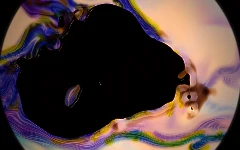
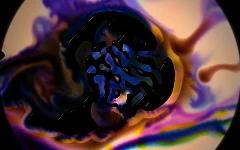
28i-8: re-tune the six looks the real dye mixing left looking bad
What was wrong. After the real dye mixing landed, the owner asked for the looks to be
re-tuned, but only where they look bad. The six suspects from #1020's stills were rendered
in the lab on the Mac's GPU (the real solver and plate shader, the synth band) at 10, 30
and 60 s, measured (mean luminance Y, share clipped to white, share near black,
Hasler-Susstrunk colourfulness) and looked at. All six were bad.

What changed. Each look is re-tuned with its own dials; no shader is touched. The built-in
looks go in the new src/presetsRetune.ts (layRetuneLooks, laid after layPaceLooks and before
layStirCords). The owner's two looks are edited in place in src/presetsOwner.ts.

- Classical Vibe. The comet's pull and its two cords are gone. Turbulence goes 0.5 -> 0.1
  with Detail 3, Sound Drive is 0.2 and the pours are bigger and more of them. Dye Budget
  is 0.7, Layer Scale Variety 0.9, and there is less blur and goo. A bass -> Buoyancy
  patch keeps 28i-3b's two fast patches. Lamp Ground stays 0. This also answers the
  owner's "a little more dye and complexity".
- Mushy Mushy: Phase Scale 0.357 -> 0.15.
- Poster, 1969: Lamp Ground 1 -> 0.5, exposure 0.55.
- Lava Lamp: the bulb goes #ffc457 -> #e3a347. Oil Weight stays 0.5.
- Turing Print: Dye Budget 0.85 -> 0.5, exposure 0.9.
- Lacing Run: Turbulence 0.7 -> 0.

What it measured (480x300 lab, before -> after, at 10/30/60 s):
- Classical Vibe: colourfulness 57/57/57 -> 83/72/62. Y .25 -> .14/.17/.22. Mean dye
[…]

diff --git a/src/presetsOwner.ts b/src/presetsOwner.ts
@@ -28,7 +28,9 @@ import { stirCordDepth, withMusicStir } from './lib/stir';
 /*
   Classical Vibe: the photograph style (a lens, its focus and bloom) on a thin
   water at a slow pace, two paper colours, sienna and ice, for the light the
-  dish is shot through. Kept as saved, but for its Lamp Ground (below).
+  dish is shot through. Kept as saved, but for its Lamp Ground and, at the
+  owner's ask for more dye and complexity (2026-11-27), its stirs, pours and
+  form dials (below).
 */
 export const CLASSICAL_VIBE: Preset = {
   id: 'classical-vibe',
@@ -48,7 +50,9 @@ export const CLASSICAL_VIBE: Preset = {
     airVelocity: 0.4926,
     vibrationFrequency: 0.2296,
     blendMode: 'lighter',
-    gooeyEffect: 0.6026,
+    // 0.6 → 0.45, and Soft Focus 0.35 → 0.2 below: less melting and less blur,
+    // so the smaller forms the owner asked for stay forms (2026-11-27).
+    gooeyEffect: 0.45,
     rotationSpeed: 0.1931,
     centerGravity: 0.4207,
     ledMode: 'fire',
@@ -61,12 +65,30 @@ export const CLASSICAL_VIBE: Preset = {
     advection: 0.7355,
     damping: 0.9419,
     heatDecay: 0.9667,
-    cometSpeed: 1.5,
+    // The comet's pull, saved at 1.5 and driven by the bass, is gone, and so
+    // are its two cords (bass on Comet Speed, tonal mid on Comet Angle). What
+    // was reported (2026-11-27): once the real dye mixing landed the look was
+    // a bare sienna-and-ice paper with a faint haze, colourfulness 57, no dye
+    // to speak of at 10, 30 or 60 s; the owner asked for a little more dye
+    // and complexity. What was measured, each stir alone on the look's own
+    // pours: with nothing stirring the plate held its dye at a mean of 0.59;
+    // the comet at half its saved speed took it to 0.05 in 10 s. On a thin gap
+    // whose rim is open, the comet is a through-flow: it carries the dye out
+    // of the dish faster than any pour lays it, and the regulator cannot put
+    // back what has left (PLAN 18a-25). The swells are the motion this look
+    // is about, so it keeps those and loses the pull.
+    cometSpeed: 0,
     cometAngle: 90,
     surge: 0.6,
     automateRate: 0.1056,
-    turbulenceScale: 0.5035,
-    turbulenceDetail: 2,
+    // Turbulence 0.5 → 0.1, Detail 2 → 3, for the same leak: the curl noise
+    // was the second drain (0.59 → 0.17 in 30 s at 0.25, 0.49 at 0.1), its
+    // lowest octave dish-sized and not held closed at the rim. A tenth of it
+    // still folds the pours; the third octave gives the smaller curls the
+    // owner asked for. The music's stir cord on it is re-sized from these by
+    // houseRules, as on every look.
+    turbulenceScale: 0.1,
+    turbulenceDetail: 3,
     boundaryContrast: 0.295,
     saturationBoost: 1.382,
     // Saved at 1, and it never drew: a photograph has its own ground, the lit
@@ -78,10 +100,12 @@ export const CLASSICAL_VIBE: Preset = {
     // byte for byte, and the desk's lamp dial no longer reads 1 on a look it
     // cannot reach.
     lampGround: 0,
-    dyeBudget: 0.5884,
+    // 0.59 → 0.7: a little more dye, the owner's ask (2026-11-27).
+    dyeBudget: 0.7,
     edgeRelief: 0.3335,
     plateRock: 0.8054,
-    layerScaleVariety: 0.7438,
+    // 0.74 → 0.9: a wider spread of form sizes, the owner's "complexity".
+    layerScaleVariety: 0.9,
     hueJourney: 0,
     beatSqueeze: 0.5293,
     backgroundLoop: 0.6085,
@@ -107,37 +131,54 @@ export const CLASSICAL_VIBE: Preset = {
     moireFlip: false,
     lampWarmth: 0.097,
     beads: 0,
-    postBlurRadius: 0.3546,
+    postBlurRadius: 0.2,
     macroChase: 0.53,
     macroHold: 9.106,
     macroSync: 0.5725,
     macroCellScale: 0.8853,
     macroDepth: 0.2751,
     macroRelief: 0.4586,
+    // Sound Drive 0.6 (unset, the default) → 0.2, with every pour's volume
+    // tripled below so the dye the music lays is what it was. The drive scales
+    // the music's stir (Turbulence's cord, the eddies), and that stir alone,
+    // at the old drive, drained the plate to 0.06 by 60 s even with the comet
+    // gone and Turbulence at 0.1. At 0.2 with the pours tripled: a mean of
+    // 0.32 at 30 s and 0.17 at 60 s, against 0.11 and 0.06; colourfulness 72
+    // and 62, against 57. Lowering the drive alone starves the pours, which
+    // it masters, so they carry the difference. The swells still breathe
+    // with the energy; they are only stirred less.
+    audioImpact: 0.2,
+    // The pours (owner's ask, 2026-11-27): smaller and more of them, so more
+    // and smaller forms: the pulse 0.12 → 0.08 across, the kick's bloom 8
+    // drops at 0.3 → 14 at 0.2, the stream and swell 0.2 → 0.14; each volume
+    // ×3 for the Sound Drive above (0.6 → 0.2) and a little over for the dye.
     sceneMappings: [
-      { source: 'bands', feature: 'bass', setting: 'cometSpeed', depth: 0.4 },
-      { source: 'bands', feature: 'tonalMid', setting: 'cometAngle', depth: 0.125 },
+      // In the comet's place, the bass on Buoyancy (0.12, the depth other
+      // looks give it): the warm water lifts on the low end, a roll that turns
+      // inside the dish and sends nothing over the rim, so the look keeps a
+      // second fast patch beside the snare's (`npm run soundpatch`, 28i-3b).
+      { source: 'bands', feature: 'bass', setting: 'buoyancy', depth: 0.12 },
       { source: 'hits', feature: 'snareHit', setting: 'vorticityConfinement', depth: 0.25 },
       { source: 'sound', feature: 'mid', setting: 'turbulenceScale', depth: 0.33 },
       { source: 'sound', feature: 'energy', setting: 'areaPour', depth: 0.5, mode: 'follow', masters: [
         'audioImpact',
-      ], role: 'pulse', volume: 0.6, size: 0.12 },
+      ], role: 'pulse', volume: 2.4, size: 0.08 },
       { source: 'sound', feature: 'energy', setting: 'areaHeat', depth: 0.05, mode: 'follow', masters: [
         'audioImpact',
       ], role: 'heat', size: 0.1 },
       { source: 'sound', feature: 'energy', setting: 'areaPress', depth: 0.5, mode: 'follow', masters: [
         'audioImpact',
       ], role: 'press', gain: 1.176, size: 0.42 },
-      { source: 'hits', feature: 'kickHit', setting: 'areaPour', depth: 0.5, mode: 'gate', threshold: 0.3, attack: 0, release: 0.1, volume: 3.2, drops: 8, size: 0.3, bottle: 2, masters: [
+      { source: 'hits', feature: 'kickHit', setting: 'areaPour', depth: 0.5, mode: 'gate', threshold: 0.3, attack: 0, release: 0.1, volume: 10.8, drops: 14, size: 0.2, bottle: 2, masters: [
         'audioImpact',
         'kickBloom',
       ], role: 'bloom' },
       { source: 'sound', feature: 'mid', setting: 'areaPour', depth: 0.5, mode: 'follow', masters: [
         'audioImpact',
-      ], role: 'stream', volume: 1.44, gain: 1.429, size: 0.2, wander: 0.6, bottle: 1 },
+      ], role: 'stream', volume: 5.1, gain: 1.429, size: 0.14, wander: 0.6, bottle: 1 },
       { source: 'sound', feature: 'energy', setting: 'areaPour', depth: 0.5, mode: 'follow', masters: [
         'audioImpact',
-      ], role: 'swell', volume: 1.44, size: 0.2, wander: 0.56, bottle: 3 },
+      ], role: 'swell', volume: 5.1, size: 0.14, wander: 0.56, bottle: 3 },
       { source: 'sound', feature: 'timbre', setting: 'areaHue', depth: 0.6, mode: 'follow', role: 'bottle', wander: 1 },
     ],
   },
@@ -146,7 +187,8 @@ export const CLASSICAL_VIBE: Preset = {
   Mushy Mushy: thick liquid in two layers with a ferrofluid phase on a
   walking magnet, the chemistry (Liesegang rings, the Turing print, a little
   BZ) printing through it, and a long hue journey. Kept as saved but for
-  Turbulence (below) and the name, capitalised as the other looks' are.
+  Turbulence and Phase Scale (below) and the name, capitalised as the other
+  looks' are.
 */
 export const MUSHY_MUSHY: Preset = {
   id: 'mushy-mushy',
@@ -162,7 +204,17 @@ export const MUSHY_MUSHY: Preset = {
     platePressure: 0.7712,
     gapThickness: 0.3953,
     phaseAmount: 0.6751,
-    phaseScale: 0.357,
+    // 0.15, saved at 0.357 (PLAN 28i-8). After the real dye mixing landed the
+    // second phase gathered into one hand-sized body, and the ferrofluid in
+    // it, dark by its nature, read as a black hole in the plate: the lab
+    // render (lookstills-entry, its synth band) measured 55% of the frame
+    // black at 10 s and 45% at 60 s. Phase Scale runs the phase from beads to
+    // hands by setting its interfacial tension and the magnet's falloff
+    // together; a lower tension cannot hold one big round domain, so at 0.15
+    // as much of the same phase breaks into a labyrinth of cells and fingers
+    // with the dye lying between them, the magnet still walking under it.
+    // The liquids, the magnet and the chemistry are unchanged.
+    phaseScale: 0.15,
     phaseSharp: 0.3486,
     magnetHeight: 0.2622,
     magnetStrength: 0.7733,

diff --git a/src/presetsRetune.ts b/src/presetsRetune.ts
@@ -1,0 +1,95 @@
+import type { Preset } from './presets';
+import type { VisualizerSettings } from './types';
+
+/*
+  The built-in looks that the real dye mixing left looking wrong, re-tuned
+  with their own dials (PLAN 28i-8).
+
+  What was reported (2026-11-27): once the real dye mixing landed, the owner
+  asked for the looks to be re-tuned, but only the ones that look bad. The
+  stills of PR #1020 named six suspects; this file holds the four built-in
+  ones (Classical Vibe and Mushy Mushy are the owner's own, edited in place
+  in presetsOwner.ts).
+
+  How each was judged: every look rendered in the lab (scripts/lookstills-
+  entry.ts `renderLook`, the real solver and plate shader on this Mac's GPU,
+  the synth band at a sixtieth of a second a step) at 10, 30 and 60 s,
+  measuring the picture's mean luminance (Y), the share of the frame
+  clipped to white, the share near black, and colourfulness (Hasler and
+  Süsstrunk), and then looked at by eye. All four were as bad as their stills.
+
+  What this file may touch: a look's light, exposure, lamp, dye budget and
+  the liquid's own dials. No shader is changed and no look is given a stir,
+  a pour or a liquid it did not have; the physics is what it was. Kept out
+  of presets.ts, which sits at its size ceiling (`npm run sizes`).
+
+  Where it runs (presetsLay.ts): after layPaceLooks and before
+  layStirCords, so the music's stir cord is sized from the Turbulence set
+  here, and after layMoireLooks, whose moiré copies of Poster and Lava Lamp
+  keep the settings they were made from.
+*/
+const RETUNES: Record<string, Partial<VisualizerSettings>> = {
+  /*
+    Poster, 1969: 47% of the frame clipped to white at 10 s and 37% at 60 s.
+    It is drawn on the lamp (Lamp Ground 1: the light comes through the
+    plate from a lamp behind it), and with the full lamp every gap between
+    the two opaque dyes was blown-out white, the orange and ultramarine
+    lost at their edges where they thin. Half the lamp keeps the poster's
+    paper ground (0 put the dyes on black, 30–44% of the frame dark, which
+    is not a screen print) and the exposure, which sets where dye thin
+    enough reads as bare glass, at 0.55 keeps the hard edges. After: no
+    clipping at 30 or 60 s, the two dyes flat and vibrating against a pale
+    ground. Exposure 0.4 on the full lamp still clipped 21%: the lamp, not
+    the film, was the cause.
+  */
+  'poster-1969': { lampGround: 0.5, exposure: 0.55 },
+  /*
+    Turing Print: dark. Y 0.05 with 64% of the frame near black at 30 and 60
+    s. A CIMA print in starch is blue-black stripes on a clear gel under a
+    white lamp, and the stripes are where the dye is; at Dye Budget 0.85
+    the regulator held so much dye on the plate that the stripes merged into
+    one blue-black field, and the clear gel the labyrinth needs between them
+    was gone. Half the dye (0.5) leaves the gel between the stripes, and the
+    exposure up to 0.9 lets the thinnest dye read as clear rather than grey.
+    After at 30 s: Y 0.22, 46% dark (the stripes themselves), 3% clipped.
+    Lower dye (0.4, exposure 1) clipped 16%; the lamp showed through bare.
+  */
+  'turing-print': { dyeBudget: 0.5, exposure: 0.9 },
+  /*
+    Lava Lamp: 64% of the frame clipped to white at 10 s, 26% at 60 s. The
+    plate stands over a warm lamp, and the bulb (#ffc457) was bright enough
+    that the clear liquid round the wax, which is most of the frame, burnt
+    out. A dimmer, deeper amber bulb (#e3a347) is the same lamp turned
+    down: after, no clipping at 30 s and Y 0.32, the wax blobs coloured
+    against an amber glow. Oil Weight stays at 0.5, so the wax still pools,
+    rises warm and sinks cool (`npm run lavacycle`, `lavaround`, `lavawax`,
+    `sealed`). Exposure 0 (dimming the film, not the bulb) still clipped 37%.
+  */
+  'lava-lamp': { ledColor: '#e3a347' },
+  /*
+    Lacing Run: dimmer. Y 0.17 at 10 s, 0.09 at 30 s and 60 s, and by 30 s
+    the amber tongue the description promises was one soft blurred blob on
+    the dark red ground. Its Turbulence (0.7) is a curl noise whose lowest
+    octave is the size of the dish and is not held closed at the open rim,
+    so on the thin gap it smears the tongue into a blob and carries dye out
+    over the rim (PLAN 18a-25). At 0 the tongue keeps its edges and drags
+    its lacing again: at 30 s and 60 s a defined amber and yellow tongue,
+    Y 0.13 and 0.09, colourfulness 97 and 81 against 82 and 74. It is only
+    partly mended: the room still stirs it (the music's stir cord on
+    Turbulence is re-sized for 0 by layStirCords, which runs after this, and
+    Air 0.2 is untouched), and that stir still carries dye out, so the dish
+    is about as dim as it was (a mean of 0.06 at 60 s). Turbulence 0.1–0.4
+    left less (0.02–0.08); a lower Sound Drive left less again, and the
+    surfactant, fingering and lacing cords made no difference, so none of
+    those changed. The rest is 18a-25's fix to the stir itself.
+  */
+  'lace-run': { turbulenceScale: 0 },
+};
+
+/** Lay the re-tunes over the looks they name (PLAN 28i-8). */
+export function layRetuneLooks(looks: Preset[]): void {
+  for (const look of looks) {
+    const p = RETUNES[look.id];
+    if (p) look.settings = { ...look.settings, ...p };
+  }
+}

diff --git a/src/presetsLay.ts b/src/presetsLay.ts
@@ -2,6 +2,7 @@ import { DEFAULT_SETTINGS } from './types';
 import type { Preset } from './presets';
 import { layMoireLooks } from './presetsMoire';
 import { layPaceLooks } from './presetsPace';
+import { layRetuneLooks } from './presetsRetune';
 import { layGlowLooks } from './presetsGlow';
 import { layOuzoLooks } from './presetsOuzo';
 import { layStirCords } from './lib/stir';
@@ -16,7 +17,9 @@ import { layOwnerLooks } from './presetsOwner';
   (presetsOuzo.ts, PLAN 48s); the moiré pack's looks, each over the look it starts from (presetsMoire.ts),
   laid from the looks as they were so the pack's own pace is its own; then the
   lively looks worked at a real show's pace (presetsPace.ts, PLAN 48q); then
-  the music's stir on every look, the pack's included (lib/stir.ts
+  the looks the real dye mixing left looking wrong, re-tuned with their own
+  dials (presetsRetune.ts, PLAN 28i-8), before the stir so its cord is sized
+  from their Turbulence; then the music's stir on every look, the pack's included (lib/stir.ts
   `layStirCords`, PLAN 38u-5); then the glass's slide on the looks that slid it
   (lib/glassSlide.ts `laySlideCords`, PLAN 38u-11, from the old 0.3 default);
   then the music's hands as cords on every look, from its own wiring and areas
@@ -31,6 +34,7 @@ export function layLooks(presets: Preset[]): void {
   layOuzoLooks(presets);
   layMoireLooks(presets);
   layPaceLooks(presets);
+  layRetuneLooks(presets);
   layStirCords(presets, DEFAULT_SETTINGS.turbulenceScale, DEFAULT_SETTINGS.audioImpact);
   laySlideCords(presets, 0.3);
   layMusicCords(presets);

diff --git a/docs/plan/28-preset-palettes-2.md b/docs/plan/28-preset-palettes-2.md
@@ -195,6 +195,27 @@ Part 2 of 2 of §28; it begins at 28i. The section starts in `28-preset-palettes
       a dark red dish, the ferrofluid's black on dye too thin to light it. The grid now
       carries Magnet Garden in its place. The look wants its dye budget or its lamp looked
       at on the Mac (filmed, since its gallery still passes), not a brighter photograph.
+  - **28i-8. The looks the real dye mixing left looking bad, re-tuned: shipped** (the owner,
+    2026-11-27: "Refactor the looks after the real dye mixing lands. Only if it looks like
+    shit though", and "Improve classical vibe a bit. A little more dye and complexity").
+    The six suspects from #1020's stills rendered in the lab (Metal, the synth band, 10/30/60
+    s: luminance Y, share clipped, share near black, colourfulness) and looked at; all six
+    were bad, and each was re-tuned with its own dials, no shader touched. Built-ins in
+    `src/presetsRetune.ts` (laid after layPaceLooks, before layStirCords), the owner's two in
+    place in `src/presetsOwner.ts`, every change commented with what was measured.
+    Classical Vibe (a bare haze, colourfulness 57): the comet's pull and its two cords gone (a bass → Buoyancy patch in their place keeps
+    it on 28i-3b's two fast patches),
+    Turbulence 0.5 → 0.1 and Detail 3, Sound Drive 0.2 with the pours tripled, smaller and
+    more of them, Dye Budget 0.7, Layer Scale Variety 0.9, less blur and goo: a mean dye of
+    0.32/0.17 at 30/60 s, colourfulness 72/62. Mushy Mushy (55% black at 10 s): Phase Scale
+    0.36 → 0.15, a lower tension, cells and fingers, 45/27/23% dark. Poster, 1969 (47%
+    clipped): Lamp Ground 0.5 and exposure 0.55, 0% clipped at 30 and 60 s (answers 28i-7d's
+    question for Poster: it leaves the full lamp). Lava Lamp (64% clipped): a dimmer amber
+    bulb (#e3a347), 0% clipped, Oil Weight still 0.5. Turing Print (Y 0.05, 64% black): Dye
+    Budget 0.5, exposure 0.9, Y 0.22, the stripes on clear gel. Lacing Run (dimmer, a blurred
+    blob): Turbulence 0, the tongue defined again but the dish still as dim (18a-25). Why
+    the two stirred looks drained: 18a-25, the comet and the Turbulence noise run out
+    through the open rim.
 - **28j. Changing looks without a jump** (the owner, 2026-10-19: "transitions between
   presets are also a little jumpy here and there"). `blendLooks` fades every number and
   colour but switches lists, steps and booleans at the midpoint, and the handoff in

diff --git a/docs/plan/18-physics.md b/docs/plan/18-physics.md
@@ -405,6 +405,21 @@ its frame rate live. "Free" means no new passes or texture reads.
     keeps it (tried here: a mixed ring of the meniscus's volume, π h / 4R of the dish) is the
     model if it ever matters; Oil Bodies' own share past the rim (oilDye, never cleared there)
     would have to be cleared with it, or bodyUnspread raises the dye to it.
+  - **18a-25, the comet's pull and the Turbulence noise are through-flows at the open rim.**
+    Found re-tuning the looks the real dye mixing left bare (28i-8, 2026-11-27). On Classical
+    Vibe's thin gap, each stir alone on its own pours (lab, Metal, the dish's mean dye): with
+    nothing stirring the dish held 0.59; the comet's pull (`cometSpeed`) at 0.75 took it to
+    0.05 in 10 s; Turbulence 0.25 to 0.17 in 30 s; the music's stir cord on Turbulence alone
+    to 0.08; Air changed nothing. Lacing Run read the same (a mean of 0.08 at 30 s at Turbulence 0.1,
+    0.02–0.04 at 0.2, and 0.06 at 60 s at 0 with the music's stir cord still on it). The comet is a uniform drift and the curl noise in forcesB
+    (`src/gpu/wgsl/fluid/forces.ts`) has a lowest octave the size of the dish, and neither is
+    held closed at the rim, so both carry liquid, and its dye, out over it; the regulator
+    cannot put back what has left. The looks were re-tuned around it (less of both); the fix
+    is the physics: lay both as stream functions held at zero near the rim, the way 18a-16
+    did the draught and 18a-17 the tilt, so they turn the liquid inside the dish and send
+    none out. Then the looks 28i-8 calmed can have their stir back. Measure with the dish's
+    own mean over 60 s at Turbulence 0.5 and the comet at 1.5 on Classical Vibe's saved
+    settings (a mean under 0.4 at 60 s means it still leaks).
 
 ## 18b. The lamp shines through the dye (replaces paint over black)
 **Partly shipped**: Lamp Ground is built (#256) and the looks that go on the lamp are chosen by rule (18b-1, #262); its byte-for-byte line at 0 runs on the CPU rasteriser since 2026-10-11 (`npm run lampzero`, 19z). What is open is below, from 18b-8 on. How it was found, built and measured is in [`docs/plan-shipped.md`](docs/plan-shipped.md), under the same number.

diff --git a/PLAN.md b/PLAN.md
@@ -593,7 +593,7 @@ Each file holds only open work; its closed items are in [`docs/plan/archive/`](d
 | 25 | Areas of interest: several places on one plate | [`25-areas.md`](docs/plan/25-areas.md) |  | 13 |
 | 26 | A reaction that prints: Turing stripes in black and white (proposed 2026-10-05) | [`26-turing-print.md`](docs/plan/26-turing-print.md) |  | 8 |
 | 27 | Every control does something you can see | [`27-controls-you-see.md`](docs/plan/27-controls-you-see.md) |  | 33 |
-| 28 | Preset palettes: the looks refreshed for what the plate does now (2026-10-10) | [`28-preset-palettes.md`](docs/plan/28-preset-palettes.md) | 28a–28h | 20 |
+| 28 | Preset palettes: the looks refreshed for what the plate does now (2026-10-10); ~~28i-8~~ the six looks the real dye mixing left bad, re-tuned on their own dials, shipped (`npm run soundpatch`, `samelook`) | [`28-preset-palettes.md`](docs/plan/28-preset-palettes.md) | 28a–28h | 20 |
 |  | (continued) | [`28-preset-palettes-2.md`](docs/plan/28-preset-palettes-2.md) | 28i–28l | 21 |
 | 29 | The closeup's ferrofluid drop: a bead dragged through dye (asked 2026-10-11) | [`29-ferro-drop.md`](docs/plan/29-ferro-drop.md) |  | 15 |
 | 30 | Shaping the sound and the MIDI: what Imaginando's VS rig showed (2026-10-11) | [`30-sound-and-midi.md`](docs/plan/30-sound-and-midi.md) |  | 12 |
